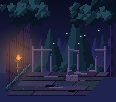
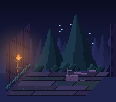
Balcony forest: remove top canopies, floor holes and plank pieces, fence
Claude-Session: https://claude.ai/code/session_01FPZSaKiVNU2zED737yZX4w

diff --git a/tools/render_balcony_forest.py b/tools/render_balcony_forest.py
@@ -44,26 +44,12 @@ def main():
         leafy(lambda x, y, c: put(x, y, c) if y < by else None, cx, cy, rng.randrange(4, 7), rng, (12, 26, 38), (20, 44, 54), (32, 66, 74))
     for cx in (CW - 6,):                                                   # 오른쪽 끝 활엽수 둥치
         tdraw(put, cx, 8, 24, int(by) + 4, (28, 24, 54), (44, 38, 80), (18, 16, 36), rng, root=12)
-    canopy(put, 26, 8, 46, 22, rng, (10, 22, 34), (20, 44, 56), (36, 74, 82))                        # 위 양옆 수관(참고 이미지의 참나무): 가운데는 열려 안개가 보인다
-    canopy(put, CW - 22, 10, 44, 24, rng, (10, 22, 34), (20, 44, 56), (36, 74, 82), flip=True)
     for _ in range(6):                                                     # 반딧불: 청록빛
         sx = rng.randrange(int(X0 + SK * D) + 6, CW - 16); sy = rng.randrange(24, int(top_rail) - 2)
         put(sx, sy, (170, 220, 230)); put(sx + 1, sy, (80, 120, 150))
     # 뒤쪽 울타리: 부러진 나무 기둥(높이 제각각, 일부는 사라짐), 기울어진 가로대
     bx0, bx1 = int(X0 + SK * D), int(X0 + SK * D + W)
-    posts = [x for x in range(bx0 + 2, bx1, 9)]
-    for i, x in enumerate(posts):
-        if i in (3, 6): continue                                        # 빠진 기둥
-        h = RAIL if i not in (2, 5, 7) else RAIL - rng.randrange(7, 14)    # 부러진 기둥은 짧음
-        for y in range(int(by - h), int(by)):
-            for k in range(2): put(x + k, y, WOODL if k == 0 else WOOD)
-        if h < RAIL:
-            put(x, int(by - h) - 1, WOODD); put(x + 1, int(by - h) - 2, WOODL)     # 부러진 끝
-    for a, b2 in ((0, 2), (4, 5), (7, 8)):                              # 남은 가로대(끊겨 있음, 기울어짐)
-        xa, xb = posts[a], posts[b2]
-        for x in range(xa, xb + 2):
-            y = int(by - RAIL + 3 + (x - xa) * (1 if a == 4 else 0) // 6)
-            put(x, y, WOODL); put(x, y + 1, WOOD)
+    # (울타리는 그리지 않는다: 바닥 끝이 바로 숲으로 열려 있음)
     # 바닥: 썩은 널빤지(가로, 틈과 구멍) + 이끼·낙엽
     rows, d0 = [], 0.0
     while d0 < D: rows.append((d0, d0 + fr.uniform(6, 12))); d0 = rows[-1][1]
@@ -73,7 +59,7 @@ def main():
         js, xj = [], fr.uniform(-40, 0)
         while xj < W + 40: xj += fr.uniform(20, 56); js.append(xj)
         info.append((js, [tuple(max(0, v + fr.randint(-4, 4)) for v in fr.choice(cols)) for _ in js]))
-    holes = [(30, 18, 9, 5), (58, 8, 7, 4)]                             # (x, 깊이 d, 가로, 세로) 구멍
+    holes = []                             # (x, 깊이 d, 가로, 세로) 구멍
     for Y in range(int(Y0 - SS * D), int(Y0) + 1):
         d = (Y0 - Y - .5) / SS
         if not (0 <= d < D): continue
@@ -107,7 +93,7 @@ def main():
     # 가구: 부서진 나무 의자·탁자(오른쪽 끝, 의자가 앞)
     def put_sprite(name, x, d):
         s = lib[name]; img.alpha_composite(s, (int(X0 + x + SK * d - s.width / 2), int(Y0 - SS * d - s.height)))
-    put_sprite('broken_table', 66, 26); put_sprite('broken_chair', 58, 18); put_sprite('plank_piece', 44, 12); put_sprite('plank_piece', 28, 34)
+    put_sprite('broken_table', 66, 26); put_sprite('broken_chair', 58, 18)
     wd, wz = 22, 22                                                   # 벽 횃불: 왼쪽 벽(깊이 22칸), 바닥에서 22칸 위
     tspr = lib['torch_wall']; img.alpha_composite(tspr, (int(X0 + SK * wd - 4), int(Y0 - SS * wd - wz - 14)))
     tx, ty = int(X0 + SK * wd + 1), int(Y0 - SS * wd - wz - 8)          # 횃불 불꽃 위치
